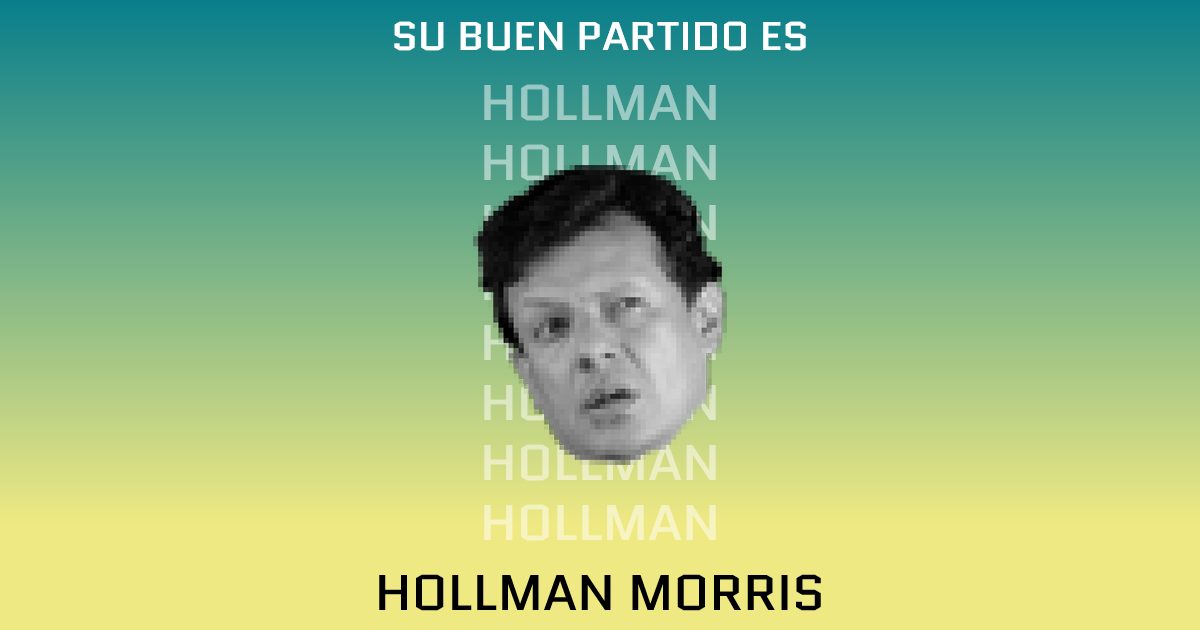
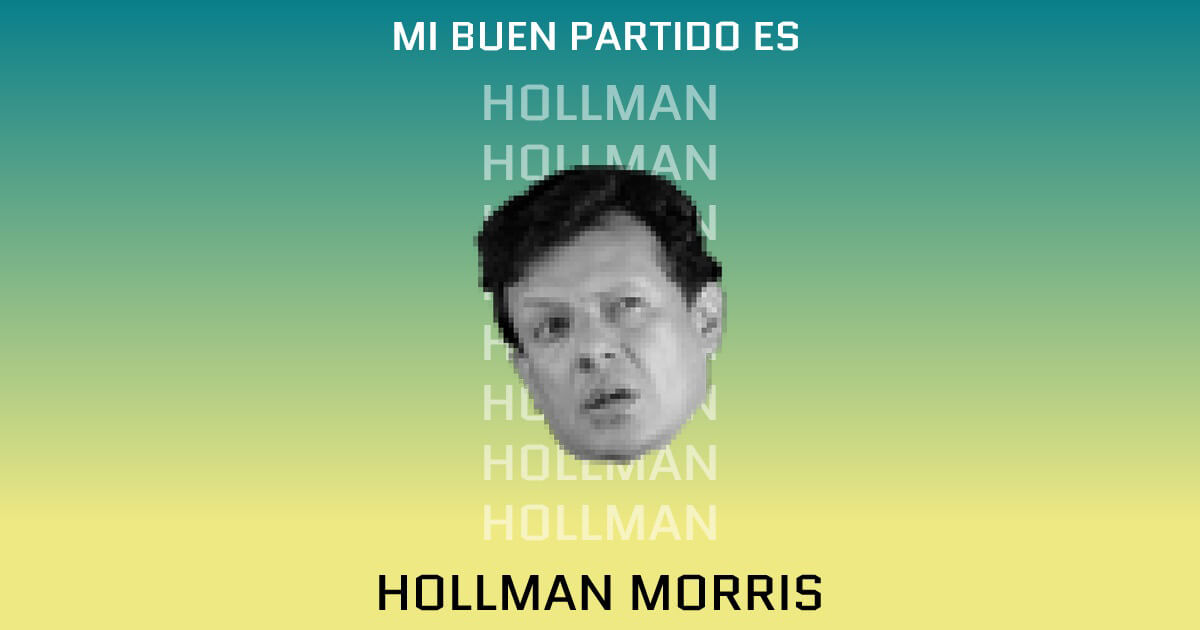
test

Changed region(s): [[0.3083, 0.0302, 0.6783, 0.0905], [0.5242, 0.9349, 0.555, 0.9651]]

diff --git a/js/scripts.js b/js/scripts.js
@@ -1,7 +1,5 @@
 var counters = {};
 var usuario = [];
-var canvas = document.getElementById('canvas');
-var ctx = canvas.getContext('2d');
 var og = {};
 var ganador = [
   {
@@ -148,79 +146,6 @@ function indexOfMax(arr) {
   };
 }
 
-function pintarResultado(userName, userImgSrc) {
-  var img = new Image();
-  img.crossOrigin = 'anonymous';
-  img.onload = function (event) {
-    var w = 1200;
-    var h = 630;
-    var centerX = w / 2;
-    var centerY = h / 2;
-    var im = event.target;
-    var iW = im.naturalWidth;
-    var iH = im.naturalHeight;
-    canvas.width = 1200;
-    canvas.height = 630;
-
-    var grd = ctx.createLinearGradient(0.0, 0.0, 0, canvas.height / 1.2);
-    grd.addColorStop(0.0, 'rgba(8, 126, 139, 1)');
-    grd.addColorStop(1.0, 'rgba(239, 233, 131, 1)');
-    ctx.fillStyle = grd;
-    ctx.fillRect(0, 0, canvas.width, canvas.height);
-
-    ctx.font = 'bold 50px Quantico';
-    ctx.fillStyle = 'white';
-    ctx.globalAlpha = 0.5;
-
-    if (userName) {
-      ctx.textAlign = 'right';
-      for (var y = 2; y < 10; y++) {
-        ctx.fillText(userName.toUpperCase(), 300, y * 60);
-        ctx.fillText(ganador[ganadorI].nombre, canvas.width - 200, y * 60);
-      }
-
-      ctx.textAlign = 'center';
-      for (var y = 2; y < 10; y++) {
-        ctx.fillText('+', centerX, y * 60);
-      }
-    } else {
-      ctx.textAlign = 'center';
-      for (var y = 2; y < 10; y++) {
-        ctx.fillText(ganador[ganadorI].nombre, centerX, y * 60);
-      }
-    }
-
-    ctx.globalAlpha = 1;
-    ctx.font = 'bold 40px Quantico';
-    ctx.textAlign = 'center';
-    ctx.fillText('MI BUEN PARTIDO ES', centerX, 50);
-
-    ctx.font = 'bold 50px Quantico';
-    ctx.fillStyle = 'black';
-    ctx.fillText(ganador[ganadorI].completo, centerX, canvas.height - 20);
-
-    if (userImgSrc) {
-      var userImg = new Image();
-      userImg.crossOrigin = 'anonymous';
-      userImg.onload = function () {
-        ctx.save();
-
-        ctx.beginPath();
-        ctx.arc(centerX - 300, centerY, 150, 0, Math.PI * 2, true);
-        ctx.clip();
-        ctx.drawImage(userImg, 150, centerY - iH / 2, 300, 300);
-        ctx.restore();
-
-        ctx.drawImage(im, centerX + iW / 2, centerY - iH / 2);
-      };
-      userImg.src = userImgSrc;
-    } else {
-      ctx.drawImage(im, centerX - iW / 2, centerY - iH / 2);
-    }
-  };
-  img.src = ganador[ganadorI].src;
-}
-
 function limitCheckboxes(form, input, limit) {
   var options = form.querySelectorAll('input');
 
@@ -257,12 +182,6 @@ function obtenerResultados() {
     }
   }
 
-  var contenedorPreguntas = document.getElementById('preguntas');
-  var contenedorRes = document.getElementById('res');
-
-  contenedorPreguntas.classList.remove('active');
-  contenedorRes.classList.add('active');
-
   var resultado = indexOfMax(suma.total);
 
   if (resultado.empate.length) {
@@ -271,16 +190,8 @@ function obtenerResultados() {
 
   ganadorI = resultado.ganador;
   og = ganador[ganadorI];
-
-  pintarResultado();
-
-  var download = document.getElementById('download-img');
-
-  download.addEventListener('click', function () {
-    canvas.toBlob(function (blob) {
-      saveAs(blob, 'miBuenPartidoes-' + ganador[ganadorI].completo + '.jpg');
-    });
-  });
+  window.location.href = "./0.html";
+  console.log(ganadorI)
 }
 
 // obtenemos todas las preguntas
@@ -572,74 +483,14 @@ for (var i = 0; i < infoLinks.length; i++) {
 
 var creditos = document.getElementById('creditos-link');
 
-creditos.addEventListener('click', function (event) {
+creditos.addEventListener('click', function () {
   var info = document.getElementById('info');
   info.classList.toggle('active');
 });
 
 var close = document.getElementById('close');
 
-close.addEventListener('click', function (event) {
+close.addEventListener('click', function () {
   var info = document.getElementById('info');
   info.classList.remove('active');
-});
-
-/*  
-  ....:::: FACEBOOK ::::....
-*/
-var fbShare = document.getElementById('share-fb');
-
-function dataURItoBlob(dataURI) {
-  var byteString = atob(dataURI.split(',')[1]);
-  var ab = new ArrayBuffer(byteString.length);
-  var ia = new Uint8Array(ab);
-  for (var i = 0; i < byteString.length; i++) {
-    ia[i] = byteString.charCodeAt(i);
-  }
-  return new Blob([ia], {
-    type: 'image/jpeg'
-  });
-}
-
-window.fbAsyncInit = function () {
-  FB.init({
-    appId: '481310545785663',
-    cookie: true,
-    xfbml: true,
-    version: 'v4.0'
-  });
-
-  FB.AppEvents.logPageView();
-};
-
-(function (d, s, id) {
-  var js,
-    fjs = d.getElementsByTagName(s)[0];
-  if (d.getElementById(id)) {
-    return;
-  }
-  js = d.createElement(s);
-  js.id = id;
-  js.src = 'https://connect.facebook.net/en_US/sdk.js';
-  fjs.parentNode.insertBefore(js, fjs);
-})(document, 'script', 'facebook-jssdk');
-
-fbShare.addEventListener('click', function () {
-  FB.login(
-    function (response) {
-      if (response.status === 'connected') {
-        FB.ui({
-          method: 'share',
-          href: 'https://developers.facebook.com/docs/',
-        }, function (res) {
-          console.log(res)
-        });
-      } else {
-        // The person is not logged into your webpage or we are unable to tell.
-      }
-    },
-    {
-      scope: 'public_profile'
-    }
-  );
 });

diff --git a/0.html b/0.html
@@ -1,0 +1,69 @@
+<!DOCTYPE html>
+<html>
+
+<head>
+  <meta charset="UTF-8">
+  <!-- Primary Meta Tags -->
+  <title>Buen Partido</title>
+  <meta name="title" content="Buen Partido">
+  <meta name="description" content="Mi buen partido es HOLLMAN MORRIS">
+
+  <!-- Open Graph / Facebook -->
+  <meta property="og:type" content="website">
+  <meta property="og:url" content="https://1cgonza.github.io/buen-partido/">
+  <meta property="og:title" content="Buen Partido">
+  <meta property="og:description" content="Mi buen partido es HOLLMAN MORRIS">
+  <meta property="og:image" content="https://1cgonza.github.io/buen-partido//imgs/miBuenPartidoesHOLLMAN-MORRIS.jpg">
+  <meta property="fb:app_id" content="481310545785663">
+
+  <!-- Twitter -->
+  <meta property="twitter:card" content="summary_large_image">
+  <meta property="twitter:url" content="https://1cgonza.github.io/buen-partido/">
+  <meta property="twitter:title" content="Buen Partido">
+  <meta property="twitter:description" content="Mi buen partido es HOLLMAN MORRIS">
+  <meta property="twitter:image"
+    content="https://1cgonza.github.io/buen-partido/imgs/miBuenPartidoesHOLLMAN-MORRIS.jpg">
+
+  <meta http-equiv="Content-Type" content="text/html;charset=UTF-8" />
+  <meta name="viewport" content="width=device-width, initial-scale=1.0" />
+  <link rel="apple-touch-icon" sizes="57x57" href="./imgs/apple-icon-57x57.png">
+  <link rel="apple-touch-icon" sizes="60x60" href="./imgs//apple-icon-60x60.png">
+  <link rel="apple-touch-icon" sizes="72x72" href="./imgs//apple-icon-72x72.png">
+  <link rel="apple-touch-icon" sizes="76x76" href="./imgs//apple-icon-76x76.png">
+  <link rel="apple-touch-icon" sizes="114x114" href="./imgs//apple-icon-114x114.png">
+  <link rel="apple-touch-icon" sizes="120x120" href="./imgs//apple-icon-120x120.png">
+  <link rel="apple-touch-icon" sizes="144x144" href="./imgs//apple-icon-144x144.png">
+  <link rel="apple-touch-icon" sizes="152x152" href="./imgs//apple-icon-152x152.png">
+  <link rel="apple-touch-icon" sizes="180x180" href="./imgs//apple-icon-180x180.png">
+  <link rel="icon" type="image/png" sizes="192x192" href="./imgs//android-icon-192x192.png">
+  <link rel="icon" type="image/png" sizes="32x32" href="./imgs//favicon-32x32.png">
+  <link rel="icon" type="image/png" sizes="96x96" href="./imgs//favicon-96x96.png">
+  <link rel="icon" type="image/png" sizes="16x16" href="./imgs//favicon-16x16.png">
+  <link rel="manifest" href="./imgs//manifest.json">
+  <meta name="msapplication-TileColor" content="#087E8B">
+  <meta name="msapplication-TileImage" content="./imgs//ms-icon-144x144.png">
+  <meta name="theme-color" content="#087E8B">
+  <link href="https://fonts.googleapis.com/css?family=Jura|Quantico&display=swap" rel="stylesheet" />
+  <link rel="stylesheet" href="./css/style.css" />
+</head>
+
+<body>
+
+
+  <div id="res">
+    <div id="canvas"><img src="https://1cgonza.github.io/buen-partido/imgs/miBuenPartidoesHOLLMAN-MORRIS.jpg" alt="">
+    </div>
+
+    <div id="compartir" class="inline">
+      <span class="inline">Compartir:</span>
+      <span id="share-fb" class="inline inline-link"></span>
+    </div>
+
+    <span id="download-img" class="inline inline-link"></span>
+  </div>
+
+  <script src="./js/fileSaver.min.js"></script>
+  <script src="./js/scripts0.js"></script>
+</body>
+
+</html>

diff --git a/js/scripts0.js b/js/scripts0.js
@@ -1,0 +1,67 @@
+/*  
+  ....:::: FACEBOOK ::::....
+*/
+var fbShare = document.getElementById('share-fb');
+
+function dataURItoBlob(dataURI) {
+  var byteString = atob(dataURI.split(',')[1]);
+  var ab = new ArrayBuffer(byteString.length);
+  var ia = new Uint8Array(ab);
+  for (var i = 0; i < byteString.length; i++) {
+    ia[i] = byteString.charCodeAt(i);
+  }
+  return new Blob([ia], {
+    type: 'image/jpeg'
+  });
+}
+
+window.fbAsyncInit = function () {
+  FB.init({
+    appId: '481310545785663',
+    cookie: true,
+    xfbml: true,
+    version: 'v4.0'
+  });
+
+  FB.AppEvents.logPageView();
+};
+
+(function (d, s, id) {
+  var js,
+    fjs = d.getElementsByTagName(s)[0];
+  if (d.getElementById(id)) {
+    return;
+  }
+  js = d.createElement(s);
+  js.id = id;
+  js.src = 'https://connect.facebook.net/en_US/sdk.js';
+  fjs.parentNode.insertBefore(js, fjs);
+})(document, 'script', 'facebook-jssdk');
+
+fbShare.addEventListener('click', function () {
+  FB.login(
+    function (response) {
+      if (response.status === 'connected') {
+        FB.ui({
+          method: 'share',
+          href: 'https://1cgonza.github.io/buen-partido/0.html',
+        }, function (res) {
+          console.log(res)
+        });
+      } else {
+        // The person is not logged into your webpage or we are unable to tell.
+      }
+    },
+    {
+      scope: 'public_profile'
+    }
+  );
+});
+
+var download = document.getElementById('download-img');
+
+console.log(saveAs)
+download.addEventListener('click', function () {
+  console.log('save')
+  saveAs("https://1cgonza.github.io/buen-partido/imgs/miBuenPartidoesHOLLMAN-MORRIS.jpg", "image.jpg");
+})

diff --git a/css/style.css b/css/style.css
@@ -164,7 +164,6 @@ h4 {
 }
 
 #res {
-  display: none;
   margin: 2em 0;
   padding: 0;
   vertical-align: top;
@@ -206,11 +205,17 @@ h4 {
   opacity: .8;
 }
 
-canvas {
+#canvas {
   border: 3px solid;
   width: 80%;
   display: block;
   margin: 0 auto;
+  line-height: 0;
+}
+
+#canvas img {
+  width: 100%;
+  height: auto;
 }
 
 section {
@@ -687,7 +692,7 @@ footer .logos img:hover {
     margin: 0 auto;
   }
 
-  canvas {
+  #canvas {
     width: 60%;
   }
 
